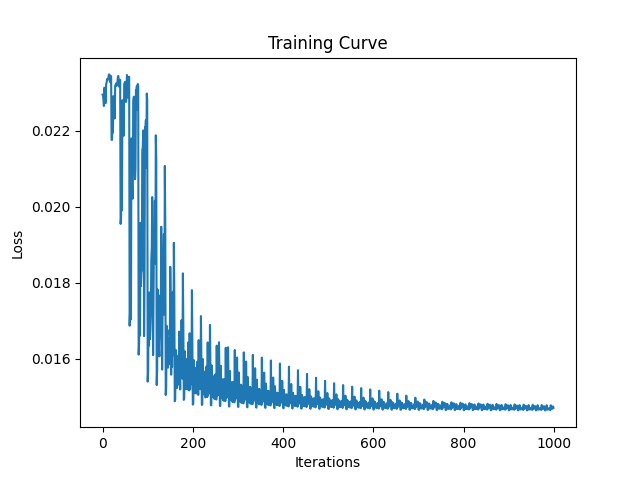
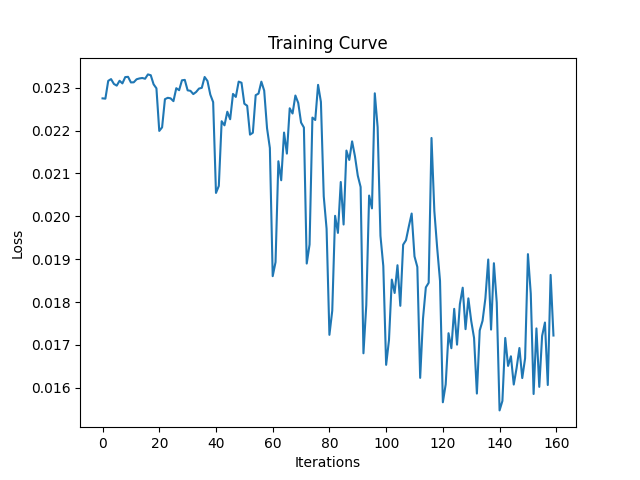
Fixed train and validation loss curve plotting

diff --git a/code/trainSupport.py b/code/trainSupport.py
@@ -32,6 +32,7 @@ def get_accuracy(model, dataloader, use_cuda, use_metal):
     correct = 0
     total = 0
     for imgs, labels in dataloader:
+
         #############################################
         # To Enable GPU Usage
         if use_cuda and torch.cuda.is_available():
@@ -165,22 +166,21 @@ def evaluate(net, loader, criterion, use_cuda, use_metal):
          loss: A scalar for the average loss function over the validation set
      """
     total_loss = 0.0
-    total_epoch = 0
-    for i, data in enumerate(loader, 0):
-        inputs, labels = data
+    i = 0
+    for inputs, labels in iter(loader):
         if use_cuda and torch.cuda.is_available():
             inputs = inputs.cuda()
             labels = labels.cuda()
         if use_metal and torch.backends.mps.is_available():
             inputs = inputs.to('mps')
             labels = labels.to('mps')
-        labels = torch.Tensor(labels)
-        labels = normalize_label(labels)  # Convert labels to 0/1
+        """labels = torch.Tensor(labels)
+        labels = normalize_label(labels)  # Convert labels to 0/1"""
         outputs = net(inputs)
         loss = criterion(outputs, labels)
         total_loss += loss.item()
-        total_epoch += len(labels)
-    loss = float(total_loss) / (i + 1)
+        i += 1
+    loss = float(total_loss) / i
     return loss
 
 
@@ -200,25 +200,23 @@ def normalize_label(labels):
 
 
 def train(model, train_data, val_data, bs=10, learning_rate=0.01, num_epochs=30, use_cuda=False, use_metal=False):
-    torch.manual_seed(1)  # set the random seed
-    train_loader = torch.utils.data.DataLoader(train_data, batch_size=bs, shuffle=False)
-    val_loader = torch.utils.data.DataLoader(val_data, batch_size=bs, shuffle=False)
+    torch.manual_seed(1000)  # set a random seed
+    train_loader = torch.utils.data.DataLoader(train_data, batch_size=bs)
+    val_loader = torch.utils.data.DataLoader(val_data, batch_size=bs)
     criterion = nn.CrossEntropyLoss()
     optimizer = optim.SGD(model.parameters(), lr=learning_rate, momentum=0.9)
-
-    torch.manual_seed(1000)
 
     iters, losses, train_acc, val_acc, train_loss, val_loss = [], [], [], [], [], []
     epochs = range(num_epochs)
 
     # training
     n = 0  # the number of iterations
-    count=0
     start_time = time.time()
 
     for ep in range(num_epochs):
-        total_train_loss = 0
-        for imgs, labels in enumerate(train_loader, 0):
+        total_train_loss = 0.0
+        i = 0
+        for imgs, labels in iter(train_loader):
 
             #############################################
             # To Enable GPU Usage
@@ -244,15 +242,11 @@ def train(model, train_data, val_data, bs=10, learning_rate=0.01, num_epochs=30,
 
             total_train_loss += loss.item()
             n += 1
-            count+=1
+            i += 1
 
         # Compute the train and validation losses
-        train_loss.append(float(total_train_loss) / count )
+        train_loss.append(float(total_train_loss) / i)
         val_loss.append(evaluate(model, val_loader, criterion, use_cuda, use_metal))
-
-        #Reset counter
-        count = 0
-
         train_acc.append(get_accuracy(model, train_loader, use_cuda, use_metal))  # compute training accuracy
         val_acc.append(get_accuracy(model, val_loader, use_cuda, use_metal))  # compute validation accuracy
 

diff --git a/code/data_loading.py b/code/data_loading.py
@@ -51,5 +51,5 @@ def load_test_data_loader():
                                          transforms.ToTensor()])  # Convert jpeg to tensor
     test_data = datasets.ImageFolder(test_dir, data_transform)
     print('Number of test images: ', len(test_data))
-    test_loader = torch.utils.data.DataLoader(test_data, batch_size=1)
+    test_loader = torch.utils.data.DataLoader(test_data)
     return test_loader
